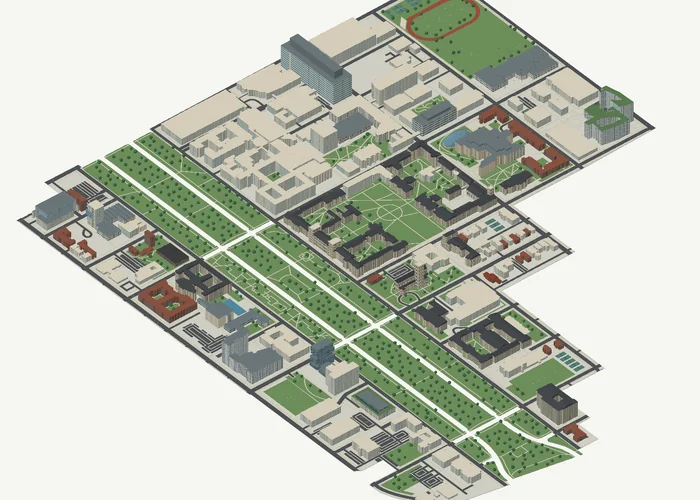
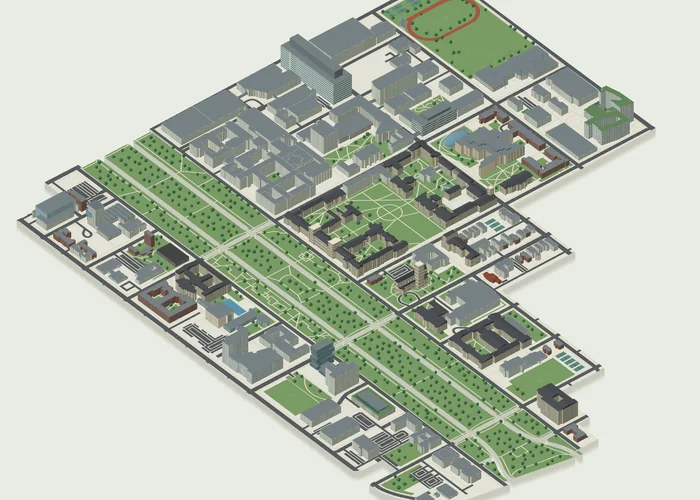
Release 26.10.16.5

diff --git a/index.html b/index.html
@@ -1,7 +1,7 @@
 <!doctype html>
 <html lang="en"><head><meta charset="utf-8"><meta name="viewport" content="width=device-width,initial-scale=1"><meta name="color-scheme" content="light"><meta name="theme-color" content="#f7f8f8">
 <title>Campus 3D Models | Explore Four University Campuses</title><meta name="description" content="Explore UChicago, UMich, UW and UC Santa Barbara through interactive 3D campus models. Discover architecture, landscapes, and layered Rhino and 3DS downloads."><meta name="robots" content="index,follow,max-image-preview:large"><link rel="canonical" href="https://arch.songming.org/">
-<meta property="og:type" content="website"><meta property="og:site_name" content="Campus 3D Models"><meta property="og:title" content="Campus 3D Models"><meta property="og:description" content="Four campuses. A different perspective. Explore UChicago, UMich, UW and UC Santa Barbara in 3D."><meta property="og:url" content="https://arch.songming.org/"><meta property="og:locale" content="en_US"><meta property="og:locale:alternate" content="zh_CN"><meta property="og:image" content="https://arch.songming.org/assets/images/social-preview.png?v=26.10.16.4"><meta property="og:image:width" content="1200"><meta property="og:image:height" content="630"><meta property="og:image:alt" content="Four architectural campus model previews from the Campus 3D Models collection."><meta name="twitter:card" content="summary_large_image"><meta name="twitter:title" content="Campus 3D Models"><meta name="twitter:description" content="Four campuses. A different perspective."><meta name="twitter:image" content="https://arch.songming.org/assets/images/social-preview.png?v=26.10.16.4">
+<meta property="og:type" content="website"><meta property="og:site_name" content="Campus 3D Models"><meta property="og:title" content="Campus 3D Models"><meta property="og:description" content="Four campuses. A different perspective. Explore UChicago, UMich, UW and UC Santa Barbara in 3D."><meta property="og:url" content="https://arch.songming.org/"><meta property="og:locale" content="en_US"><meta property="og:locale:alternate" content="zh_CN"><meta property="og:image" content="https://arch.songming.org/assets/images/social-preview.png?v=26.10.16.5"><meta property="og:image:width" content="1200"><meta property="og:image:height" content="630"><meta property="og:image:alt" content="Four architectural campus model previews from the Campus 3D Models collection."><meta name="twitter:card" content="summary_large_image"><meta name="twitter:title" content="Campus 3D Models"><meta name="twitter:description" content="Four campuses. A different perspective."><meta name="twitter:image" content="https://arch.songming.org/assets/images/social-preview.png?v=26.10.16.5">
 <link rel="icon" type="image/svg+xml" href="assets/brand/atlas.svg"><link rel="icon" type="image/png" sizes="32x32" href="assets/brand/icon-32.png"><link rel="apple-touch-icon" href="assets/brand/apple-touch-icon.png"><link rel="stylesheet" href="assets/site.css?v=26.10.16.3"><script defer src="assets/site.js"></script><script type="application/ld+json" id="schema">{"@context":"https://schema.org","@graph":[{"@type":"WebSite","@id":"https://arch.songming.org/#website","url":"https://arch.songming.org/","name":"Campus 3D Models","inLanguage":["en","zh-CN"]},{"@type":"CollectionPage","@id":"https://arch.songming.org/#collection","url":"https://arch.songming.org/","name":"Campus 3D Models","description":"Explore interactive 3D campus models of UChicago, UMich, UW and UC Santa Barbara.","isPartOf":{"@id":"https://arch.songming.org/#website"},"mainEntity":{"@type":"ItemList","numberOfItems":4,"itemListElement":[{"@type":"ListItem","position":1,"name":"University of Chicago","url":"https://uchi.arch.songming.org/"},{"@type":"ListItem","position":2,"name":"University of Michigan","url":"https://umich.arch.songming.org/"},{"@type":"ListItem","position":3,"name":"University of Washington","url":"https://uw.arch.songming.org/"},{"@type":"ListItem","position":4,"name":"UC Santa Barbara","url":"https://ucsb.arch.songming.org/"}]}}]}</script></head>
 <body id="top">
 <a href="#campuses" class="skip-link" data-i18n="skip">Skip to campus collection</a>
@@ -10,12 +10,12 @@
 <section class="introduction page-width" aria-labelledby="hero-title"><div class="intro-title"><p class="eyebrow" data-i18n="eyebrow">Independent campus studies</p><h1 id="hero-title"><span data-i18n="heroFirst">Campus,</span><span data-i18n="heroLast">in three dimensions.</span></h1></div><div class="intro-copy"><p data-i18n="intro">An evolving collection of university campuses, studied through their buildings, landscapes and the spaces between.</p><a href="#campuses" class="text-link"><span class="big-number">4</span> <span data-i18n="count">campuses to explore</span><span aria-hidden="true">↓</span></a></div></section>
 <section class="collection page-width" id="campuses" aria-labelledby="collection-title"><div class="section-heading"><h2 id="collection-title" data-i18n="sectionLabel">The collection</h2><span data-i18n="sectionNumber">01—04 / CAMPUS MODELS</span></div><div class="campus-grid"><a class="campus-card" href="https://uchi.arch.songming.org/" target="_blank" rel="noopener" data-campus="uchi" id="project-uchi" aria-label="View University of Chicago model (opens in a new tab)">
  <div class="project-line"><span class="project-number">01</span><span data-i18n="uchi.location">Chicago, Illinois</span><span class="project-mark" aria-hidden="true"><svg viewBox="0 0 24 24" aria-hidden="true"><path d="M5 19 19 5M5 5h14v14"/></svg></span></div>
- <div class="card-image"><img src="assets/images/uchi-small.webp?v=26.10.16.4" srcset="assets/images/uchi-small.webp?v=26.10.16.4 700w, assets/images/uchi.webp?v=26.10.16.4 1400w" sizes="(max-width: 700px) 100vw, 50vw" width="1400" height="1000" alt="3D exterior model of the University of Chicago campus" loading="lazy" decoding="async"></div>
+ <div class="card-image"><img src="assets/images/uchi-small.webp?v=26.10.16.5" srcset="assets/images/uchi-small.webp?v=26.10.16.5 700w, assets/images/uchi.webp?v=26.10.16.5 1400w" sizes="(max-width: 700px) 100vw, 50vw" width="1400" height="1000" alt="3D exterior model of the University of Chicago campus" loading="lazy" decoding="async"></div>
  <div class="project-caption"><h3 data-i18n="uchi.name">University of Chicago</h3><span data-i18n="uchi.campus">Hyde Park campus</span></div>
  <p class="project-features" data-i18n="uchi.features">Main Quads · Midway Plaisance · Architectural landmarks</p><span class="project-link"><span data-i18n="open">View model</span><span class="model-arrow" aria-hidden="true"><svg viewBox="0 0 16 24" width="16" height="24" focusable="false"><path d="M3 18 13 7M5.5 7H13v7.5"/></svg></span></span>
 </a><a class="campus-card" href="https://umich.arch.songming.org/" target="_blank" rel="noopener" data-campus="umich" id="project-umich" aria-label="View University of Michigan model (opens in a new tab)">
  <div class="project-line"><span class="project-number">02</span><span data-i18n="umich.location">Ann Arbor, Michigan</span><span class="project-mark" aria-hidden="true"><svg viewBox="0 0 24 24" aria-hidden="true"><path d="M5 19 19 5M5 5h14v14"/></svg></span></div>
- <div class="card-image"><img src="assets/images/umich-small.webp?v=26.10.16.4" srcset="assets/images/umich-small.webp?v=26.10.16.4 700w, assets/images/umich.webp?v=26.10.16.4 1400w" sizes="(max-width: 700px) 100vw, 50vw" width="1400" height="1000" alt="3D exterior model of the University of Michigan campus" loading="lazy" decoding="async"></div>
+ <div class="card-image"><img src="assets/images/umich-small.webp?v=26.10.16.5" srcset="assets/images/umich-small.webp?v=26.10.16.5 700w, assets/images/umich.webp?v=26.10.16.5 1400w" sizes="(max-width: 700px) 100vw, 50vw" width="1400" height="1000" alt="3D exterior model of the University of Michigan campus" loading="lazy" decoding="async"></div>
  <div class="project-caption"><h3 data-i18n="umich.name">University of Michigan</h3><span data-i18n="umich.campus">Ann Arbor campus</span></div>
  <p class="project-features" data-i18n="umich.features">The Diag · North Campus · Medical & Athletic campuses</p><span class="project-link"><span data-i18n="open">View model</span><span class="model-arrow" aria-hidden="true"><svg viewBox="0 0 16 24" width="16" height="24" focusable="false"><path d="M3 18 13 7M5.5 7H13v7.5"/></svg></span></span>
 </a><a class="campus-card" href="https://uw.arch.songming.org/" target="_blank" rel="noopener" data-campus="uw" id="project-uw" aria-label="View University of Washington model (opens in a new tab)">

diff --git a/scripts/encode_browser_preview.py b/scripts/encode_browser_preview.py
@@ -1,0 +1,36 @@
+"""Encode native browser Save view PNGs; preserve the recorded camera/crop.
+
+Usage: python3 scripts/encode_browser_preview.py {uchi,umich} /path/to/view.png
+Export the complete CAD model through the current campus viewer first. Raw CAD
+rasterizers omit the website's cartographic surface stack and terrain lighting.
+This tool only crops/encodes pixels; it never re-renders or simplifies geometry.
+"""
+from pathlib import Path
+import argparse, hashlib, json, shutil
+from PIL import Image, ImageOps
+
+parser = argparse.ArgumentParser(description=__doc__)
+parser.add_argument('campus', choices=['uchi', 'umich'])
+parser.add_argument('png', type=Path)
+args = parser.parse_args()
+root = Path(__file__).resolve().parents[1]
+metadata_path = root / f'docs/{args.campus}-preview-camera.json'
+metadata = json.loads(metadata_path.read_text())
+with Image.open(args.png) as source:
+    if source.format != 'PNG' or list(source.size) != metadata['resolution']:
+        parser.error(f'Expected native browser PNG at {metadata["resolution"]}')
+    image = source.convert('RGB')
+    if metadata.get('crop'):
+        image = image.crop(metadata['crop'])
+    image = ImageOps.fit(image, (1400, 1000), method=Image.Resampling.LANCZOS)
+source_path = root / 'docs/previews' / {'uchi': 'uchi-source.png', 'umich': 'umich-diag.png'}[args.campus]
+if source_path.resolve() != args.png.resolve():
+    shutil.copyfile(args.png, source_path)
+image.save(root / f'assets/images/{args.campus}.webp', quality=87, method=6)
+image.resize((700, 500), Image.Resampling.LANCZOS).save(root / f'assets/images/{args.campus}-small.webp', quality=85, method=6)
+metadata['source'] = str(source_path.relative_to(root))
+metadata['source_sha256'] = hashlib.sha256(source_path.read_bytes()).hexdigest()
+metadata['capture'] = 'Native browser Save view PNG from the complete original CAD model, using the current website material preparation, cartographic surface order and terrain lighting; regional LOD disabled'
+metadata['source_resolution'] = metadata['resolution']
+metadata_path.write_text(json.dumps(metadata, indent=2) + '\n')
+print(f'Encoded {args.campus}: browser PNG, desktop 1400x1000, mobile 700x500')

diff --git a/docs/ASSET_SOURCES.md b/docs/ASSET_SOURCES.md
@@ -2,9 +2,11 @@
 
 Campus previews are exported renders from the corresponding local campus projects. They are used here as static navigation previews; interactive models remain on their own websites. The images are cropped/resized and encoded as WebP. Their original geometry and source attribution remain documented in each campus project.
 
[6 lines of base64/hex data omitted]
+
+For UMich and UChicago, export the recorded camera through the current campus browser viewer at the exact `resolution` in its camera JSON, with the complete CAD stream and all exterior details enabled. Use **Save view**, then run `python3 scripts/encode_browser_preview.py CAMPUS /path/to/view.png`. This applies the recorded crop and encodes both thumbnail sizes. A raw-mesh depth-buffer render is unsuitable for published previews: it omits the viewer's explicit landscape ordering and can cover lawns with underlying pale terrain. The browser captures retain the same CAD digests as the preceding previews; the corrected difference is rendering, not a model revision.
 
 The website uses system Helvetica/Arial and Chinese system fonts. Manrope is retained for raster share-image generation under the SIL Open Font License. Legacy font assets keep their accompanying licenses. The monochrome atlas mark is an original SVG made for this project.

diff --git a/CHANGELOG.md b/CHANGELOG.md
@@ -1,5 +1,10 @@
 # Changelog
 
+## 26.10.16.5 — 2026-10-16
+
+- Correct missing lawn areas and surface appearance in the UMich and UChicago previews by exporting through the same browser renderer used by the interactive maps. Preserve the established cameras, crops and complete original CAD geometry.
+- Replace the raw-mesh offline preview renderer with a PNG-only browser-export encoder; retain lossless source views and refresh desktop/mobile thumbnails, share-image tiles and image cache versions.
+
 ## 26.10.16.4 — 2026-10-16
 
 - Refresh UChicago, UMich and UC Santa Barbara desktop/mobile previews and share-image tiles from the latest complete original CAD geometry, preserving their established cameras and crops.
